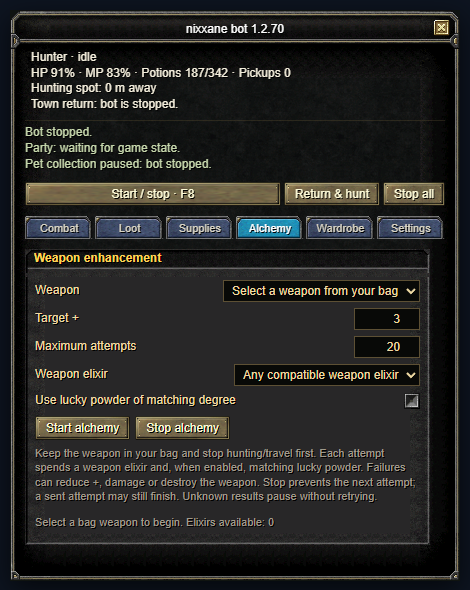
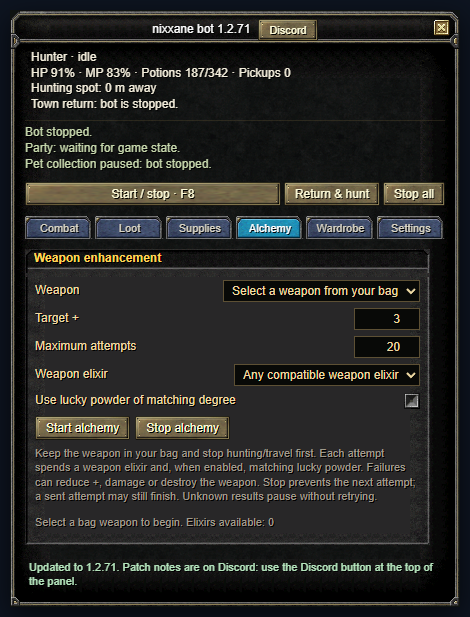
1.2.71 patch notes and Discord links

diff --git a/index.html b/index.html
@@ -14,7 +14,7 @@
     <h1>nixxane bot</h1>
     <p>A compact OpenSRO bot for combat, potions, pet loot and town trips.</p>
     <p class="download"><a class="install" href="https://raw.githubusercontent.com/nixxane/opensro-bot-lean/main/bot.lean.user.js">Install / update bot</a></p>
-    <p class="version"><a href="./guide.html">Setup guide</a> · <a id="release" href="https://github.com/nixxane/opensro-bot-lean/commits/main/">View latest version</a> · <a href="#patch-notes">Patch notes</a></p>
+    <p class="version"><a href="./guide.html">Setup guide</a> · <a href="https://discord.gg/Ju4WtWCRTa">Discord</a> · <a id="release" href="https://github.com/nixxane/opensro-bot-lean/commits/main/">View latest version</a> · <a href="#patch-notes">Patch notes</a></p>
     <h2>Quick setup</h2>
     <ol>
       <li>Install <a href="https://www.tampermonkey.net/">Tampermonkey</a> in your browser.</li>
@@ -25,6 +25,14 @@
     <section id="patch-notes" aria-labelledby="patch-notes-title">
       <h2 id="patch-notes-title">Patch notes</h2>
       <p class="notes-intro">Install the latest script, then reload the game. Reporting-service fixes apply automatically.</p>
+      <article class="release">
+        <h3><a href="https://github.com/nixxane/opensro-bot-lean/commit/0fe4fa6282a8d5d0564a268940ff2f697b55b308">1.2.71</a> · Discord</h3>
+        <ul>
+          <li>New <strong>Discord</strong> button at the top of the panel, next to the version. Updates, suggestions and bug reports now have a home: <a href="https://discord.gg/Ju4WtWCRTa">https://discord.gg/Ju4WtWCRTa</a>.</li>
+          <li>After each update the bot shows a short notice once, pointing to the button. First-time installs get a short welcome with the same pointer.</li>
+          <li>Releases are published on GitHub with their notes so they can be announced on Discord automatically.</li>
+        </ul>
+      </article>
       <article class="release">
         <h3><a href="https://github.com/nixxane/opensro-bot-lean/commit/1d6d2a95f56e58749bd7a6dfb0d93e45c179435d">1.2.70</a> · Automatic town setup</h3>
         <ul>
@@ -267,7 +275,7 @@
         <p><a href="https://github.com/nixxane/opensro-bot-lean/commits/main/">Full development history</a></p>
       </details>
     </section>
-    <footer><a href="./guide.html">Setup guide</a><a href="https://github.com/nixxane/opensro-bot-lean#readme">README</a><a href="https://github.com/nixxane/opensro-bot-lean">GitHub</a><a href="https://github.com/nixxane/opensro-bot-lean/issues">Report an issue</a><button id="theme-toggle" type="button" hidden>Dark mode</button></footer>
+    <footer><a href="./guide.html">Setup guide</a><a href="https://discord.gg/Ju4WtWCRTa">Discord</a><a href="https://github.com/nixxane/opensro-bot-lean#readme">README</a><a href="https://github.com/nixxane/opensro-bot-lean">GitHub</a><a href="https://github.com/nixxane/opensro-bot-lean/issues">Report an issue</a><button id="theme-toggle" type="button" hidden>Dark mode</button></footer>
   </main>
 </body>
 </html>

diff --git a/guide.html b/guide.html
@@ -128,10 +128,11 @@
         <tr><td>Hunting stopped: stuck</td><td>Anti-stuck found no progress after its recoveries. Move to a better spot or adjust the minutes.</td></tr>
       </tbody>
     </table>
+    <p>Questions, suggestions and bug reports are welcome on <a href="https://discord.gg/Ju4WtWCRTa">Discord</a>. The <strong>Discord</strong> button at the top of the bot panel opens the same invite, and patch notes are posted there.</p>
     <p>Still stuck? Use <strong>Settings → Send bug report</strong>. It opens a window with a diagnostics preview (no names, chat or locations), an optional note and screenshot, and nothing is sent until you press <strong>Send to developer</strong>. You can also <a href="https://github.com/nixxane/opensro-bot-lean/issues">open an issue</a>.</p>
     <img class="shot" src="guide/14-bug-report.png" width="470" alt="The bug report window floating over the game next to the bot panel, with the diagnostics preview, an explanation box and Send to developer.">
 
-    <footer><a href="./">Home</a><a href="./#patch-notes">Patch notes</a><a href="https://github.com/nixxane/opensro-bot-lean#readme">README</a><a href="https://github.com/nixxane/opensro-bot-lean">GitHub</a><button id="theme-toggle" type="button" hidden>Dark mode</button></footer>
+    <footer><a href="./">Home</a><a href="https://discord.gg/Ju4WtWCRTa">Discord</a><a href="./#patch-notes">Patch notes</a><a href="https://github.com/nixxane/opensro-bot-lean#readme">README</a><a href="https://github.com/nixxane/opensro-bot-lean">GitHub</a><button id="theme-toggle" type="button" hidden>Dark mode</button></footer>
   </main>
 </body>
 </html>
